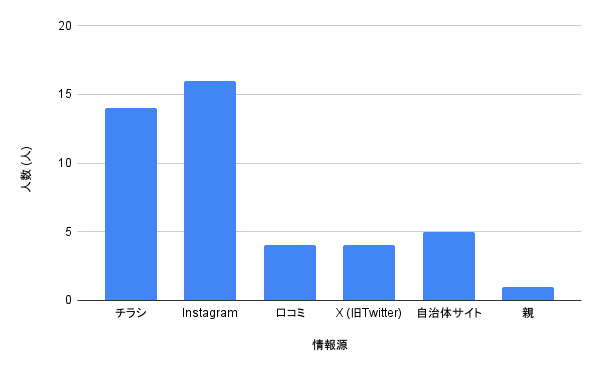
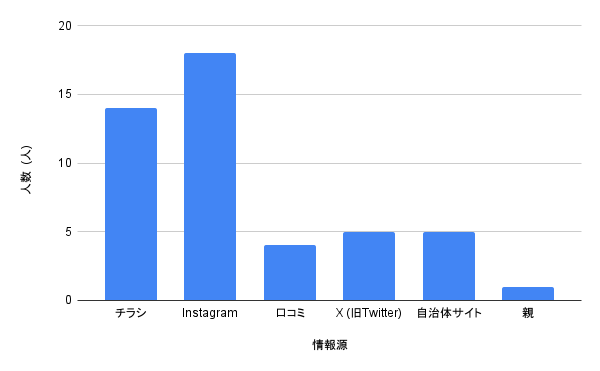
docs : 1,2,5章の修正
- グラフを更新
- 箇条書きをitemize環境を使うように修正
- %表記に統一
- グラフの更新に伴うアンケートの集計人数や結果の割合の記述を修正
- アンケートの欲しい情報と欲しい機能の横軸の項目が切れていたのでグラフを縦方向に大きくした．

Changed region(s): [[0.3, 0.1186, 0.42, 0.2372], [0.57, 0.6226, 0.66, 0.6819], [0.03, 0.3854, 0.06, 0.5337]]

diff --git a/proposal/sections/section1.tex b/proposal/sections/section1.tex
@@ -1,6 +1,6 @@
 \section{現状の課題}
 \subsection{アンケート結果による現状の分析}
-土佐山田町の地域情報の入手状況と地域SNSに必要な情報及び機能についてアンケートを実施した.アンケートは土佐山田町に住む10代から50代の男女30名に実施した.
+土佐山田町の地域情報の入手状況と地域SNSに必要な情報及び機能についてアンケートを実施した.アンケートは土佐山田町に住む10代から50代の男女32名に実施した.
 
 \subsubsection{地域のイベントやお店の情報をどのくらいチェックしていますか？}
 \begin{figure}[H]
@@ -9,7 +9,7 @@
     \caption{地域情報等を見る頻度}
     \label{fig:Q1}
 \end{figure}
-図\ref{fig:Q1}より，5割程度の人が土佐山田町に関する情報をあまり見ない，全く見ないと回答している．
+図\ref{fig:Q1}より，50\%程度の人が土佐山田町に関する情報をあまり見ない，全く見ないと回答している．
 
 \subsubsection{地域情報は普段どこから得ていますか？(複数回答可)}
 \begin{figure}[H]
@@ -18,7 +18,7 @@
     \caption{地域情報の入手先}
     \label{fig:Q3}
 \end{figure}
-図\ref{fig:Q3}より，地域情報は主にInstagram (約36\%) やチラシ (約32\%)から得ていることが分かった．
+図\ref{fig:Q3}より，地域情報は主にInstagram (約38\%) やチラシ (約30\%)から得ていることが分かった．
 
 \subsubsection{どんな情報を地域SNSで見たいですか？(複数回答可)}
 \begin{figure}[H]
@@ -27,7 +27,7 @@
     \caption{見たい地域情報}
     \label{fig:Q4}
 \end{figure}
-図\ref{fig:Q4}より，地域SNSがあるならば，イベント情報 (40\%) や飲食店の情報 (約33\%)を入手したい人が多いことが分かった．
+図\ref{fig:Q4}より，地域SNSがあるならば，イベント情報 (約41\%) や飲食店の情報 (約34\%)を入手したい人が多いことが分かった．
 
 \subsubsection{どんな機能があれば使いたいと思いますか？}
 \begin{figure}[H]
@@ -36,28 +36,26 @@
     \caption{欲しい機能}
     \label{fig:Q7}
 \end{figure}
-図\ref{fig:Q7}より，地域SNSに欲しい機能として地図上での投稿の閲覧 (約29\%)，匿名投稿 (約23\%)を上げる人が多かった．
+図\ref{fig:Q7}より，地域SNSに欲しい機能として地図上での投稿の閲覧 (約28\%)，匿名投稿 (約22\%)を上げる人が多かった．
 
 \subsection{アンケート結果の分析}
 アンケートの結果より土佐山田町に住んでいる人は地域情報を積極的に入手する人は少ないことが分かる．これは，土佐山田町の地域情報を発信している媒体が複数存在しており，情報が分散されていることが原因と考えられる．例として，香美市の公式サイト\cite{label1}では以下の以下の5つの項目を確認できる．
-\begin{enumerate}
-    \renewcommand{\labelenumi}{・}
+\begin{itemize}
     \item くらしの情報
     \item 事業者向け情報
     \item 観光・イベント情報
     \item 市政情報
     \item 施設検索
-\end{enumerate}
+\end{itemize}
 住民生活に関係するくらしの情報の項目では福祉，税金，交通情報，防災・災害などの18項目を取り扱っている．香美市では以下の6つを公式SNSとして運用している\cite{label2}．
-\begin{enumerate}
-    \renewcommand{\labelenumi}{・}
+\begin{itemize}
     \item 香美市公式LINE
     \item 香美市公式Facebook
     \item 香美市立図書館公式Instagram
     \item 香美市あんぱん室（やなせたかし先生顕彰事業推進室）公式Instagram
     \item 香美市消防本部公式Instagram
     \item 香美市山村留学公式Instagram
-\end{enumerate}
+\end{itemize}
 公式LINEではイベントの情報を中心に，公式Facebookでは活動報告を中心に発信している.
 Instagramは4つ公式アカウントがあるように分野別にアカウントを分けて発信している．これらの公式SNSに加えて，土佐山田町にある企業や店舗の発信や個人的な発信が様々な媒体で行われている．そのため，必要な情報を得るために複数の媒体を利用しなければならない現状がある．
 

diff --git a/proposal/sections/section5.tex b/proposal/sections/section5.tex
@@ -1,8 +1,7 @@
 \section{想定する利用者}
 想定される利用者は以下の通りである.
-\begin{enumerate}
-    \renewcommand{\labelenumi}{・}
+\begin{itemize}
     \item 土佐山田町に在住している人
     \item 土佐山田町の自治体職員
     \item 土佐山田町でお店を経営している人
-\end{enumerate}
+\end{itemize}
